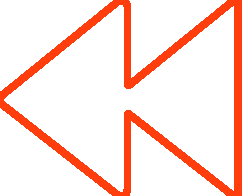
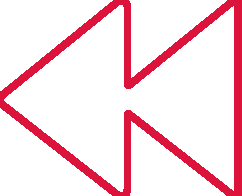
A

Changed region(s): [[0.0, 0.0, 1.0, 1.0]]

diff --git a/src/Routes/Animation7/Animation7.js b/src/Routes/Animation7/Animation7.js
@@ -2,20 +2,20 @@ import React from "react";
 import {View} from "react-native";
 import css from "./Animation7.style";
 import {Player,PlayerMotion,PlayerControls} from "components";
-import {LinearGradient} from "expo-linear-gradient";
+//import {LinearGradient} from "expo-linear-gradient";
 
 
 export default function Animation7(){
     return (
         <View style={css.animation7}>
-            <LinearGradient style={css.background} colors={["#ff3d0d","transparent"]}
-                start={[0,0]} end={[1,1]} locations={[0.01,0.1]}
-            />
+            {/*<LinearGradient style={css.background} colors={["#ff3d0d","transparent"]}
+                start={[0,0]} end={[0,1]} locations={[0.01,0.5]}
+            />*/}
             <View style={css.row0}>
                 <Player/>
             </View>
             <View style={css.row1}>
-                <PlayerMotion/>
+                <PlayerMotion style={css.playermotion}/>
                 <PlayerControls duration={317}/>
             </View>
         </View>

diff --git a/src/Components/Player/Player.style.js b/src/Components/Player/Player.style.js
@@ -1,20 +1,29 @@
 import {StyleSheet} from "react-native";
-import {rem,border} from "css";
+import {rem,vh,border} from "css";
+import {Colors} from "estate";
 
 
+const colors=Colors.animation7;
 const css=StyleSheet.create({
     player:{
-        width:7*rem,
-        height:7*rem,
-        borderRadius:40*rem,
-        marginVertical:15,
+        width:"100%",
+        height:55*vh,
         justifyContent:"center",
         alignItems:"center",
-        //...border(2,"solid","#ff3d0d"),
-        overflow:"visible",
+    },
+    badge:{
+        width:"150%",
+        height:"100%",
+        position:"absolute",
+        top:0,
+        alignSelf:"center",
+        backgroundColor:colors.primary,
+        borderBottomLeftRadius:100*rem,
+        borderBottomRightRadius:100*rem,
+        zIndex:0,
     },
     icon:{
-        maxWidth:"100%",
+        maxWidth:"50%",
         resizeMode:"contain",
         //marginRight:1*rem,
     },

diff --git a/src/Routes/Animation7/Animation7.style.js b/src/Routes/Animation7/Animation7.style.js
@@ -1,31 +1,34 @@
 import {StyleSheet} from "react-native";
 import {rem,border} from "css";
+import {Colors} from "estate";
 
 
+const colors=Colors.animation7;
 const css=StyleSheet.create({
     animation7:{
         width:"100%",
         flex:1,
-        backgroundColor:"#1b1b1b",
+        backgroundColor:colors.background,
     },
     background:{
         position:"absolute",
         top:0,
         width:"100%",
-        height:"50%",
-        //transform:[{rotateZ:"180deg"}]
+        height:"100%",
     },
     row0:{
         width:"100%",
-        justifyContent:"center",
         alignItems:"center",
     },
     row1:{
         width:"100%",
         flex:1,
-        justifyContent:"space-around",
+        justifyContent:"flex-end",
         alignItems:"center",
         //...border(2,"solid","#ff3d0d"),
+    },
+    playermotion:{
+        marginBottom:3*rem,
     },
 });
 

diff --git a/src/Components/PlayerControls/PlayerControls.js b/src/Components/PlayerControls/PlayerControls.js
@@ -16,15 +16,15 @@ export default function PlayerControls(props){
     },[]);
     return (
         <View style={css.playercontrols}>
-            <View style={css.row0}>
-                <PlayerTimer duration={duration}/>
-            </View>
             <View style={css.row1}>
                 <TO><Image style={css.directionbtn} source={arrow2}/></TO>
                 <TO style={css.playbtn} onPress={()=>{dispatch(setPlaying(!playing))}}>
                     <Image style={[css.playbtnimg,styles.playbtnimg(playing)]} source={playing?pause0:play1}/>
                 </TO>
                 <TO><Image style={[css.directionbtn,styles.rightarrow]} source={arrow2}/></TO>
+            </View>
+            <View style={css.row0}>
+                <PlayerTimer duration={duration}/>
             </View>
         </View>
     )

diff --git a/src/Components/PlayerControls/PlayerControls.style.js b/src/Components/PlayerControls/PlayerControls.style.js
@@ -1,12 +1,15 @@
 import {StyleSheet} from "react-native";
 import {rem,border} from "css";
+import {Colors} from "estate";
 
 
+const colors=Colors.animation7;
 const css=StyleSheet.create({
     playercontrols:{
         width:"100%",
         justifyContent:"space-around",
         alignItems:"center",
+        marginBottom:5*rem,
     },
     row0:{
         width:"100%",
@@ -23,7 +26,7 @@ const css=StyleSheet.create({
         height:4*rem,
         justifyContent:"center",
         alignItems:"center",
-        ...border(1,"solid","#ff3d0d"),
+        ...border(1,"solid",colors.primary),
         borderRadius:50,
         overflow:"hidden",
     },

diff --git a/src/Components/PlayerControls/PlayerTimer/PlayerTimer.style.js b/src/Components/PlayerControls/PlayerTimer/PlayerTimer.style.js
@@ -1,13 +1,15 @@
 import {StyleSheet} from "react-native";
 import {rem} from "css";
+import {Colors} from "estate";
 
 
+const colors=Colors.animation7;
 const css=StyleSheet.create({
     playertimer:{
         width:"100%",
         justifyContent:"center",
         alignItems:"center",
-        marginVertical:20,
+        marginTop:20,
     },
     timebar:{
         width:"90%",
@@ -18,7 +20,7 @@ const css=StyleSheet.create({
     playedbar:{
         width:"100%",
         height:"100%",
-        backgroundColor:"#ff3d0d",
+        backgroundColor:colors.primary,
     },
 });
 

diff --git a/src/Components/Player/Player.js b/src/Components/Player/Player.js
@@ -1,14 +1,15 @@
 import React from "react";
 import {View,Image,Animated} from "react-native";
 import css from "./Player.style";
-import {music1,disc0} from "assets";
+import {music1,disc2} from "assets";
 
 
 export default function Player(props){
     const {}=props;
     return (
         <View style={css.player}>
-            <Image style={css.icon} source={music1}/>
+            <View style={css.badge}/>
+            {<Image style={css.icon} source={disc2}/>}
         </View>
     )
 }

diff --git a/src/Assets/index.js b/src/Assets/index.js
@@ -22,6 +22,7 @@ export {default as play1} from "./Images/Play_1.png";
 export {default as pause0} from "./Images/Pause_0.png";
 export {default as arrow2} from "./Images/Arrow_2.png";
 export {default as disc0} from "./Images/Disc_0.png";
+export {default as disc2} from "./Images/Disc_2.png";
 
 //Fonts:
 export {default as princesssofia} from "./Fonts/PrincessSofia-Regular.ttf";

diff --git a/src/Components/PlayerMotion/MotionBar/MotionBar.style.js b/src/Components/PlayerMotion/MotionBar/MotionBar.style.js
@@ -1,13 +1,15 @@
 import {StyleSheet} from "react-native";
 import {rem,border} from "css";
+import {Colors} from "estate";
 
 
+const colors=Colors.animation7;
 const css=StyleSheet.create({
     motionbar:{
         width:1*rem,
         height:"100%",
         marginHorizontal:1,
-        backgroundColor:"#ff3d0d",
+        backgroundColor:colors.primary,
     },
 });
 

diff --git a/src/Components/PlayerControls/PlayerTimer/Hooks.js b/src/Components/PlayerControls/PlayerTimer/Hooks.js
@@ -25,6 +25,7 @@ export const useProgressBar=(duration,containerRef)=>{
             state.animation.start(({finished})=>{
                 if(finished){
                     dispatch(setPlaying(false));
+                    state.animation.reset();
                     state.progress.setValue(0);
                 }
             });

diff --git a/src/Components/PlayerMotion/PlayerMotion.js b/src/Components/PlayerMotion/PlayerMotion.js
@@ -8,7 +8,7 @@ import {useKey} from "afile";
 export default function PlayerMotion(props){
     const {length}=props;
     return (
-        <View style={css.playermotion}>
+        <View style={[css.playermotion,props.style]}>
             {getMotionBars(length)}
         </View>
     )

diff --git a/src/Estate/Colors.js b/src/Estate/Colors.js
@@ -1,0 +1,7 @@
+
+export default {
+    animation7:{
+        background:"#1b1b1b",
+        primary:"#dc143c",
+    },
+};
